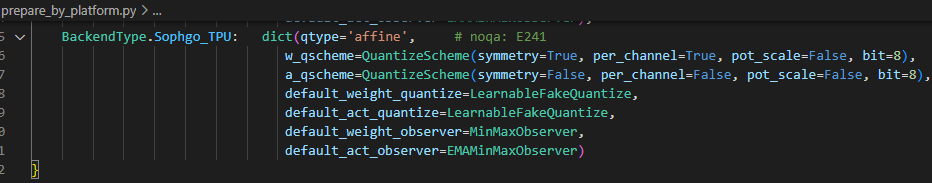
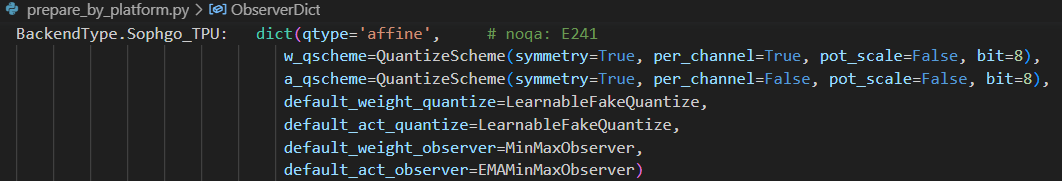
fix doc issue

diff --git a/docs/quick_start/source_en/Appx.02_cv18xx_guide.rst b/docs/quick_start/source_en/Appx.02_cv18xx_guide.rst
@@ -3,7 +3,7 @@
 Appendix.02: CV18xx Guidance
 =============================
 
-CV18xx series chip currently supports ONNX and Caffe models but not TFLite models. In terms of quantization, CV18xx supports BF16 and asymmetric INT8 format. This chapter takes the CV183X as an example to introduce the compilation and runtime sample of the CV18xx series chip.
+CV18xx series chip currently supports ONNX and Caffe models but not TFLite models. In terms of quantization, CV18xx supports BF16 and symmetric INT8 format. This chapter takes the CV183X as an example to introduce the compilation and runtime sample of the CV18xx series chip.
 
 Compile yolov5 model
 --------------------

diff --git a/docs/developer_manual/source_en/15_qat.rst b/docs/developer_manual/source_en/15_qat.rst
@@ -71,7 +71,7 @@ In the above figure, items in the dict behind sophgo_tpu in order of top to bott
 
 1、The weight quantization scheme is: per-chan symmetric 8bit quantization, the scale coefficient is not power-of-2, but arbitrary
 
-2、The activation quantization scheme is per-layer asymmetric 8bit quantization
+2、The activation quantization scheme is per-layer symmetric 8bit quantization
 
 3/4、The weights and activation pseudo-quantization schemes are: LearnableFakeQuantize, namely LSQ algorithm
 

diff --git a/docs/quick_start/source_zh/Appx.02_cv18xx_guide.rst b/docs/quick_start/source_zh/Appx.02_cv18xx_guide.rst
@@ -4,7 +4,7 @@
 ===============================
 
 CV18xx支持ONNX系列和Caffe模型,目前不支持TFLite模型。在量化数据类型方面,CV18xx支持BF16格式的量化
-和INT8格式的非对称量化。本章节以CV183X芯片为例,介绍CV18xx系列芯片编译模型和运行runtime sample。
+和INT8格式的对称量化。本章节以CV183X芯片为例,介绍CV18xx系列芯片编译模型和运行runtime sample。
 
 编译yolov5模型
 ------------------

diff --git a/docs/developer_manual/source_zh/15_qat.rst b/docs/developer_manual/source_zh/15_qat.rst
@@ -69,7 +69,7 @@ tpu-mlir QAT实现方案及特点
 
 1、权重量化方案为： per-chan对称8bit量化，scale系数不是power-of-2，而是任意的
 
-2、激活量化方案为：per-layer非对称8bit量化
+2、激活量化方案为：per-layer对称8bit量化
 
 3/4、权重和激活伪量化方案均为：LearnableFakeQuantize即LSQ算法
 
